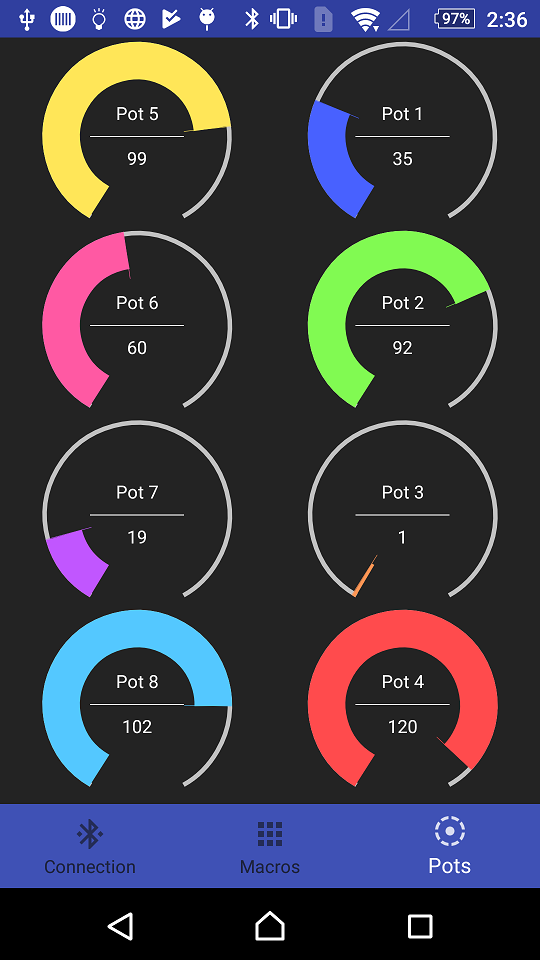
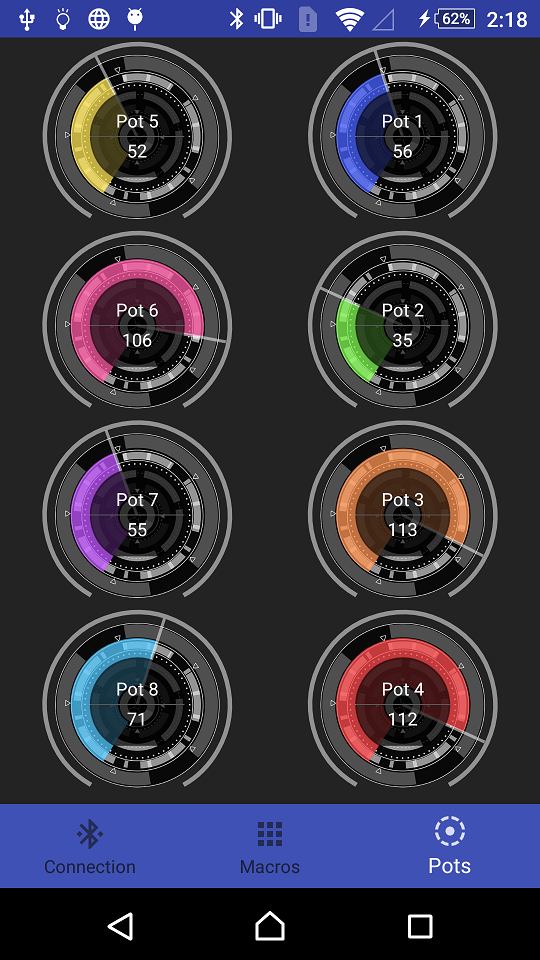
potentiometers updated

diff --git a/app/src/main/java/com/siziksu/bluetooth/ui/view/custom/RoundedView.kt b/app/src/main/java/com/siziksu/bluetooth/ui/view/custom/RoundedView.kt
@@ -6,6 +6,8 @@ import android.graphics.Canvas
 import android.graphics.Paint
 import android.graphics.RectF
 import android.graphics.Typeface
+import android.graphics.drawable.Drawable
+import android.support.v4.content.ContextCompat
 import android.util.AttributeSet
 import android.view.MotionEvent
 import android.view.View
@@ -13,6 +15,7 @@ import com.siziksu.bluetooth.R
 import com.siziksu.bluetooth.common.extension.toRadians
 import kotlin.math.cos
 import kotlin.math.sin
+
 
 class RoundedView : View {
 
@@ -26,18 +29,17 @@ class RoundedView : View {
     @JvmField
     var listener = {}
 
-    private var layoutHeight = 0
-    private var layoutWidth = 0
+    private var layoutHeight = 0f
+    private var layoutWidth = 0f
 
     private var barBounds = RectF()
     private val barPaint = Paint()
-    private var barWidth = 20f
-    private var barColor = -0x56000000
+    private var barColor = 0xFFFFD900.toInt()
 
     private var rimBounds = RectF()
     private val rimPaint = Paint()
     private var rimWidth = 20f
-    private var rimColor = -0x55222223
+    private var rimColor = 0x80FFFFFF.toInt()
 
     private val whitePaint = Paint()
     private val whiteColor = -0x1
@@ -48,18 +50,23 @@ class RoundedView : View {
     private var textMargin = 0f
     private var textSize = 30f
     private var textStyle = Typeface.NORMAL
-    private var textColor = -0x56000000
+    private var textColor = 0xFFFFFFFF.toInt()
     private var text = "0"
+
+    private val textBackPaint = Paint()
+    private var textBackBounds = RectF()
+    private var textBackColor = 0xaa000000.toInt()
 
     private var potNumber = 0
 
     private var canMove = false
 
     private val currentPositionPaint = Paint()
+    private var currentPositionColor = 0x80FFFFFF.toInt()
     private var centerX = 0f
     private var centerY = 0f
-    private var radius = 0
-    private var halfRadius = 0
+    private var radius = 0f
+    private var halfRadius = 0f
 
     private var currentPointXa = 0f
     private var currentPointYa = 0f
@@ -70,6 +77,8 @@ class RoundedView : View {
     private var lastValidMidiValueSent = 0
 
     private val roundedViewMaths by lazy { RoundedViewMaths() }
+
+    private var drawable: Drawable? = null
 
     constructor(context: Context) : super(context) {
         init(context, null)
@@ -87,6 +96,7 @@ class RoundedView : View {
         if (attrs != null) {
             parseAttributes(context.obtainStyledAttributes(attrs, R.styleable.RoundedView))
         }
+        drawable = ContextCompat.getDrawable(getContext(), R.drawable.hud)
     }
 
     /**
@@ -96,8 +106,8 @@ class RoundedView : View {
      */
     override fun onSizeChanged(w: Int, h: Int, oldw: Int, oldh: Int) {
         super.onSizeChanged(w, h, oldw, oldh)
-        layoutWidth = w
-        layoutHeight = h
+        layoutWidth = w.toFloat()
+        layoutHeight = h.toFloat()
         setupBounds()
         setupPaints()
         invalidate()
@@ -122,19 +132,20 @@ class RoundedView : View {
     }
 
     override fun onDraw(canvas: Canvas) {
+        drawable?.draw(canvas)
         // Draw the rim
         if (rimWidth > 0) {
             canvas.drawArc(rimBounds, START_ANGLE, SWEEP_ANGLE, false, rimPaint)
         }
         // Draw the bar
-        if (barWidth > 0) {
-            canvas.drawArc(barBounds, START_ANGLE, roundedViewMaths.value(), false, barPaint)
-        }
+        canvas.drawArc(barBounds, START_ANGLE, roundedViewMaths.value(), false, barPaint)
         // Draw current value line
         calculateLinePointsForCurrentValue(roundedViewMaths.value())
         canvas.drawLine(currentPointXb, currentPointYb, currentPointXa, currentPointYa, currentPositionPaint)
         // Draw horizontal line
         canvas.drawLine((centerX - halfRadius), centerY, (centerX + halfRadius), centerY, whitePaint)
+        // Draw black background for text
+        canvas.drawArc(textBackBounds, START_ANGLE, SWEEP_ANGLE, false, textBackPaint)
         // Draw the text below horizontal line
         calculateTextCoordinates()
         canvas.drawText(text, textX, textY, textPaint)
@@ -167,8 +178,8 @@ class RoundedView : View {
         halfRadius = radius / 2
 
         // To compensate the values when the view is not a square
-        val h = (if (layoutHeight < layoutWidth) layoutWidth - layoutHeight else 0) / 2
-        val v = (if (layoutWidth < layoutHeight) layoutHeight - layoutWidth else 0) / 2
+        val h: Float = (if (layoutHeight < layoutWidth) layoutWidth - layoutHeight else 0f) / 2
+        val v: Float = (if (layoutWidth < layoutHeight) layoutHeight - layoutWidth else 0f) / 2
 
         var left: Float
         var top: Float
@@ -181,26 +192,38 @@ class RoundedView : View {
         bottom = (v - PADDING - rimWidth / 2 + minWidthHeightValue)
         rimBounds = RectF(left, top, right, bottom)
 
-        left = (h + PADDING + barWidth / 2)
-        top = (v + PADDING + barWidth / 2)
-        right = (h - PADDING - barWidth / 2) + minWidthHeightValue
-        bottom = (v - PADDING - barWidth / 2) + minWidthHeightValue
+        left = (h + PADDING + rimWidth + halfRadius)
+        top = (v + PADDING + rimWidth + halfRadius)
+        right = (h - PADDING - rimWidth - halfRadius) + minWidthHeightValue
+        bottom = (v - PADDING - rimWidth - halfRadius) + minWidthHeightValue
         barBounds = RectF(left, top, right, bottom)
+
+        left = (h + PADDING + halfRadius)
+        top = (v + PADDING + halfRadius)
+        right = (h - PADDING - halfRadius) + minWidthHeightValue
+        bottom = (v - PADDING - halfRadius) + minWidthHeightValue
+        textBackBounds = RectF(left, top, right, bottom)
+
+        left = h + PADDING
+        top = v + PADDING
+        right = (h - PADDING) + minWidthHeightValue
+        bottom = (v - PADDING) + minWidthHeightValue
+        drawable?.setBounds(left.toInt(), top.toInt(), right.toInt(), bottom.toInt())
     }
 
     private fun setupPaints() {
-        if (barWidth > 0) {
-            barPaint.isAntiAlias = true
-            barPaint.color = barColor
-            barPaint.strokeWidth = barWidth
-            barPaint.style = Paint.Style.STROKE
-        }
+        barPaint.isAntiAlias = true
+        barPaint.color = barColor
+        barPaint.strokeWidth = halfRadius
+        barPaint.style = Paint.Style.STROKE
+
         if (rimWidth > 0) {
             rimPaint.isAntiAlias = true
             rimPaint.color = rimColor
             rimPaint.strokeWidth = rimWidth
             rimPaint.style = Paint.Style.STROKE
         }
+
         textPaint.isAntiAlias = true
         textPaint.color = textColor
         textPaint.textSize = textSize
@@ -215,9 +238,13 @@ class RoundedView : View {
         whitePaint.textAlign = Paint.Align.CENTER
 
         currentPositionPaint.isAntiAlias = true
-        currentPositionPaint.color = barColor
+        currentPositionPaint.color = currentPositionColor
+        currentPositionPaint.strokeWidth = 6f
         currentPositionPaint.style = Paint.Style.STROKE
-        currentPositionPaint.strokeCap = Paint.Cap.ROUND
+
+        textBackPaint.isAntiAlias = true
+        textBackPaint.color = textBackColor
+        textBackPaint.style = Paint.Style.FILL
     }
 
     private fun calculateTextCoordinates() {
@@ -230,10 +257,10 @@ class RoundedView : View {
     }
 
     private fun calculateLinePointsForCurrentValue(value: Float) {
-        currentPointXa = centerX + (radius * cos((value + START_ANGLE).toRadians()))
-        currentPointYa = centerY + (radius * sin((value + START_ANGLE).toRadians()))
-        currentPointXb = centerX + ((radius - halfRadius) * cos((value + START_ANGLE).toRadians()))
-        currentPointYb = centerY + ((radius - halfRadius) * sin((value + START_ANGLE).toRadians()))
+        currentPointXa = centerX + ((radius - rimWidth) * cos((value + START_ANGLE).toRadians()))
+        currentPointYa = centerY + ((radius - rimWidth) * sin((value + START_ANGLE).toRadians()))
+        currentPointXb = centerX // + ((radius - halfRadius) * cos((value + START_ANGLE).toRadians()))
+        currentPointYb = centerY // + ((radius - halfRadius) * sin((value + START_ANGLE).toRadians()))
     }
 
     private fun setText(value: Float) {
@@ -253,8 +280,6 @@ class RoundedView : View {
      */
     private fun parseAttributes(attributes: TypedArray) {
         barColor = attributes.getColor(R.styleable.RoundedView_barColor, barColor)
-        barWidth = attributes.getDimension(R.styleable.RoundedView_barWidth, barWidth)
-        rimColor = attributes.getColor(R.styleable.RoundedView_rimColor, rimColor)
         rimWidth = attributes.getDimension(R.styleable.RoundedView_rimWidth, rimWidth)
         textMargin = attributes.getDimension(R.styleable.RoundedView_textMargin, textMargin)
         textColor = attributes.getColor(R.styleable.RoundedView_android_textColor, textColor)

diff --git a/app/src/main/java/com/siziksu/bluetooth/ui/view/main/MainActivity.java b/app/src/main/java/com/siziksu/bluetooth/ui/view/main/MainActivity.java
@@ -72,8 +72,8 @@ public class MainActivity extends AppCompatActivity implements MainViewContract 
     View potentiometersView;
     @BindView(R.id.editMacrosButton)
     ImageButton editMacrosButton;
-    @BindView(R.id.editKeepScreenOnButton)
-    ImageButton editKeepScreenOnButton;
+    @BindView(R.id.keepScreenOnButton)
+    ImageButton keepScreenOnButton;
     @BindView(R.id.terminal)
     TextView terminal;
     @BindView(R.id.lastCommand)
@@ -164,7 +164,7 @@ public class MainActivity extends AppCompatActivity implements MainViewContract 
     @Override
     public void onConfigurationChanged(Configuration newConfig) {
         super.onConfigurationChanged(newConfig);
-        updateViews();
+        updateViewsOnConfigurationChanged();
     }
 
     @Override
@@ -193,8 +193,8 @@ public class MainActivity extends AppCompatActivity implements MainViewContract 
     }
 
     @Override
-    public void writeInTerminal(String message, boolean main) {
-        if (main) {
+    public void writeInTerminal(String message, boolean both) {
+        if (both) {
             terminal.append(Html.fromHtml((terminal.length() == 0 ? "" : Constants.TERMINAL_CRLF) + message));
             terminal.requestFocus();
         }
@@ -238,10 +238,10 @@ public class MainActivity extends AppCompatActivity implements MainViewContract 
         }
     }
 
-    @OnClick({R.id.editKeepScreenOnButton, R.id.editMacrosButton})
+    @OnClick({R.id.keepScreenOnButton, R.id.editMacrosButton})
     public void onButtonClick(View view) {
         switch (view.getId()) {
-            case R.id.editKeepScreenOnButton:
+            case R.id.keepScreenOnButton:
                 keepScreenOn = !keepScreenOn;
                 updateKeepScreenOnButton();
                 break;
@@ -291,7 +291,7 @@ public class MainActivity extends AppCompatActivity implements MainViewContract 
         updatePots();
     }
 
-    private void updateViews() {
+    private void updateViewsOnConfigurationChanged() {
         ((ViewGroup) macrosView).removeAllViews();
         ((ViewGroup) macrosView).addView(getLayoutInflater().inflate(R.layout.view_macros, ((ViewGroup) macrosViewContainer), false));
         ((ViewGroup) potentiometersView).removeAllViews();
@@ -323,12 +323,10 @@ public class MainActivity extends AppCompatActivity implements MainViewContract 
 
     private void onViewSliderBackAvailable() {
         switch (viewSlider.getViewId()) {
-            case R.id.macrosView:
-                bottomNavigation.setSelectedItemId(R.id.action_connection);
-                break;
             case R.id.potentiometersView:
                 bottomNavigation.setSelectedItemId(R.id.action_macros);
                 break;
+            case R.id.macrosView:
             default:
                 bottomNavigation.setSelectedItemId(R.id.action_connection);
                 break;
@@ -336,7 +334,7 @@ public class MainActivity extends AppCompatActivity implements MainViewContract 
     }
 
     private void updateKeepScreenOnButton() {
-        editKeepScreenOnButton.setBackground(ContextCompat.getDrawable(this, !keepScreenOn ? R.drawable.keep_on : R.drawable.keep_off));
+        keepScreenOnButton.setBackground(ContextCompat.getDrawable(this, !keepScreenOn ? R.drawable.keep_on : R.drawable.keep_off));
         presenter.updateScreenOnState(keepScreenOn);
     }
 

diff --git a/app/src/main/java/com/siziksu/bluetooth/presenter/main/MainPresenter.java b/app/src/main/java/com/siziksu/bluetooth/presenter/main/MainPresenter.java
@@ -150,7 +150,7 @@ public final class MainPresenter implements MainPresenterContract<MainViewContra
     }
 
     @Override
-    public void write(String message, boolean error, boolean main) {
+    public void write(String message, boolean error, boolean both) {
         if (view != null) {
             if (!lastMessage.equals(message)) {
                 lastMessage = message;
@@ -160,7 +160,7 @@ public final class MainPresenter implements MainPresenterContract<MainViewContra
                 String terminalWarningColor = view.getAppCompatActivity().getString(R.string.terminal_warning_color);
                 String date = String.format(Constants.TERMINAL_DATE, terminalDateColor, currentDate);
                 String entry = String.format(Constants.TERMINAL_ENTRY, (!error ? terminalEntryColor : terminalWarningColor), message);
-                view.writeInTerminal(date + entry, main);
+                view.writeInTerminal(date + entry, both);
             }
         }
     }
@@ -280,22 +280,21 @@ public final class MainPresenter implements MainPresenterContract<MainViewContra
 
     private byte getMidiCcFromPotId(int id) {
         switch (id) {
-            case R.id.potentiometer1:
-                return 100;
-            case R.id.potentiometer2:
-                return 101;
-            case R.id.potentiometer3:
-                return 102;
-            case R.id.potentiometer4:
-                return 103;
-            case R.id.potentiometer5:
-                return 104;
-            case R.id.potentiometer6:
-                return 105;
-            case R.id.potentiometer7:
-                return 106;
             case R.id.potentiometer8:
                 return 107;
+            case R.id.potentiometer7:
+                return 106;
+            case R.id.potentiometer6:
+                return 105;
+            case R.id.potentiometer5:
+                return 104;
+            case R.id.potentiometer4:
+                return 103;
+            case R.id.potentiometer3:
+                return 102;
+            case R.id.potentiometer2:
+                return 101;
+            case R.id.potentiometer1:
             default:
                 return 100;
         }

diff --git a/app/src/main/java/com/siziksu/bluetooth/presenter/main/MainViewContract.java b/app/src/main/java/com/siziksu/bluetooth/presenter/main/MainViewContract.java
@@ -12,7 +12,7 @@ public interface MainViewContract extends BaseViewContract {
 
     void hideLoadingDialog();
 
-    void writeInTerminal(String message, boolean main);
+    void writeInTerminal(String message, boolean both);
 
     void onConnectionUpdate(boolean connected);
 }

diff --git a/app/src/main/java/com/siziksu/bluetooth/domain/bluetooth/BluetoothDomainPresenterContract.java b/app/src/main/java/com/siziksu/bluetooth/domain/bluetooth/BluetoothDomainPresenterContract.java
@@ -4,7 +4,7 @@ import java.util.List;
 
 public interface BluetoothDomainPresenterContract {
 
-    void write(String message, boolean error, boolean main);
+    void write(String message, boolean error, boolean both);
 
     void showLoadingDialog();
 
